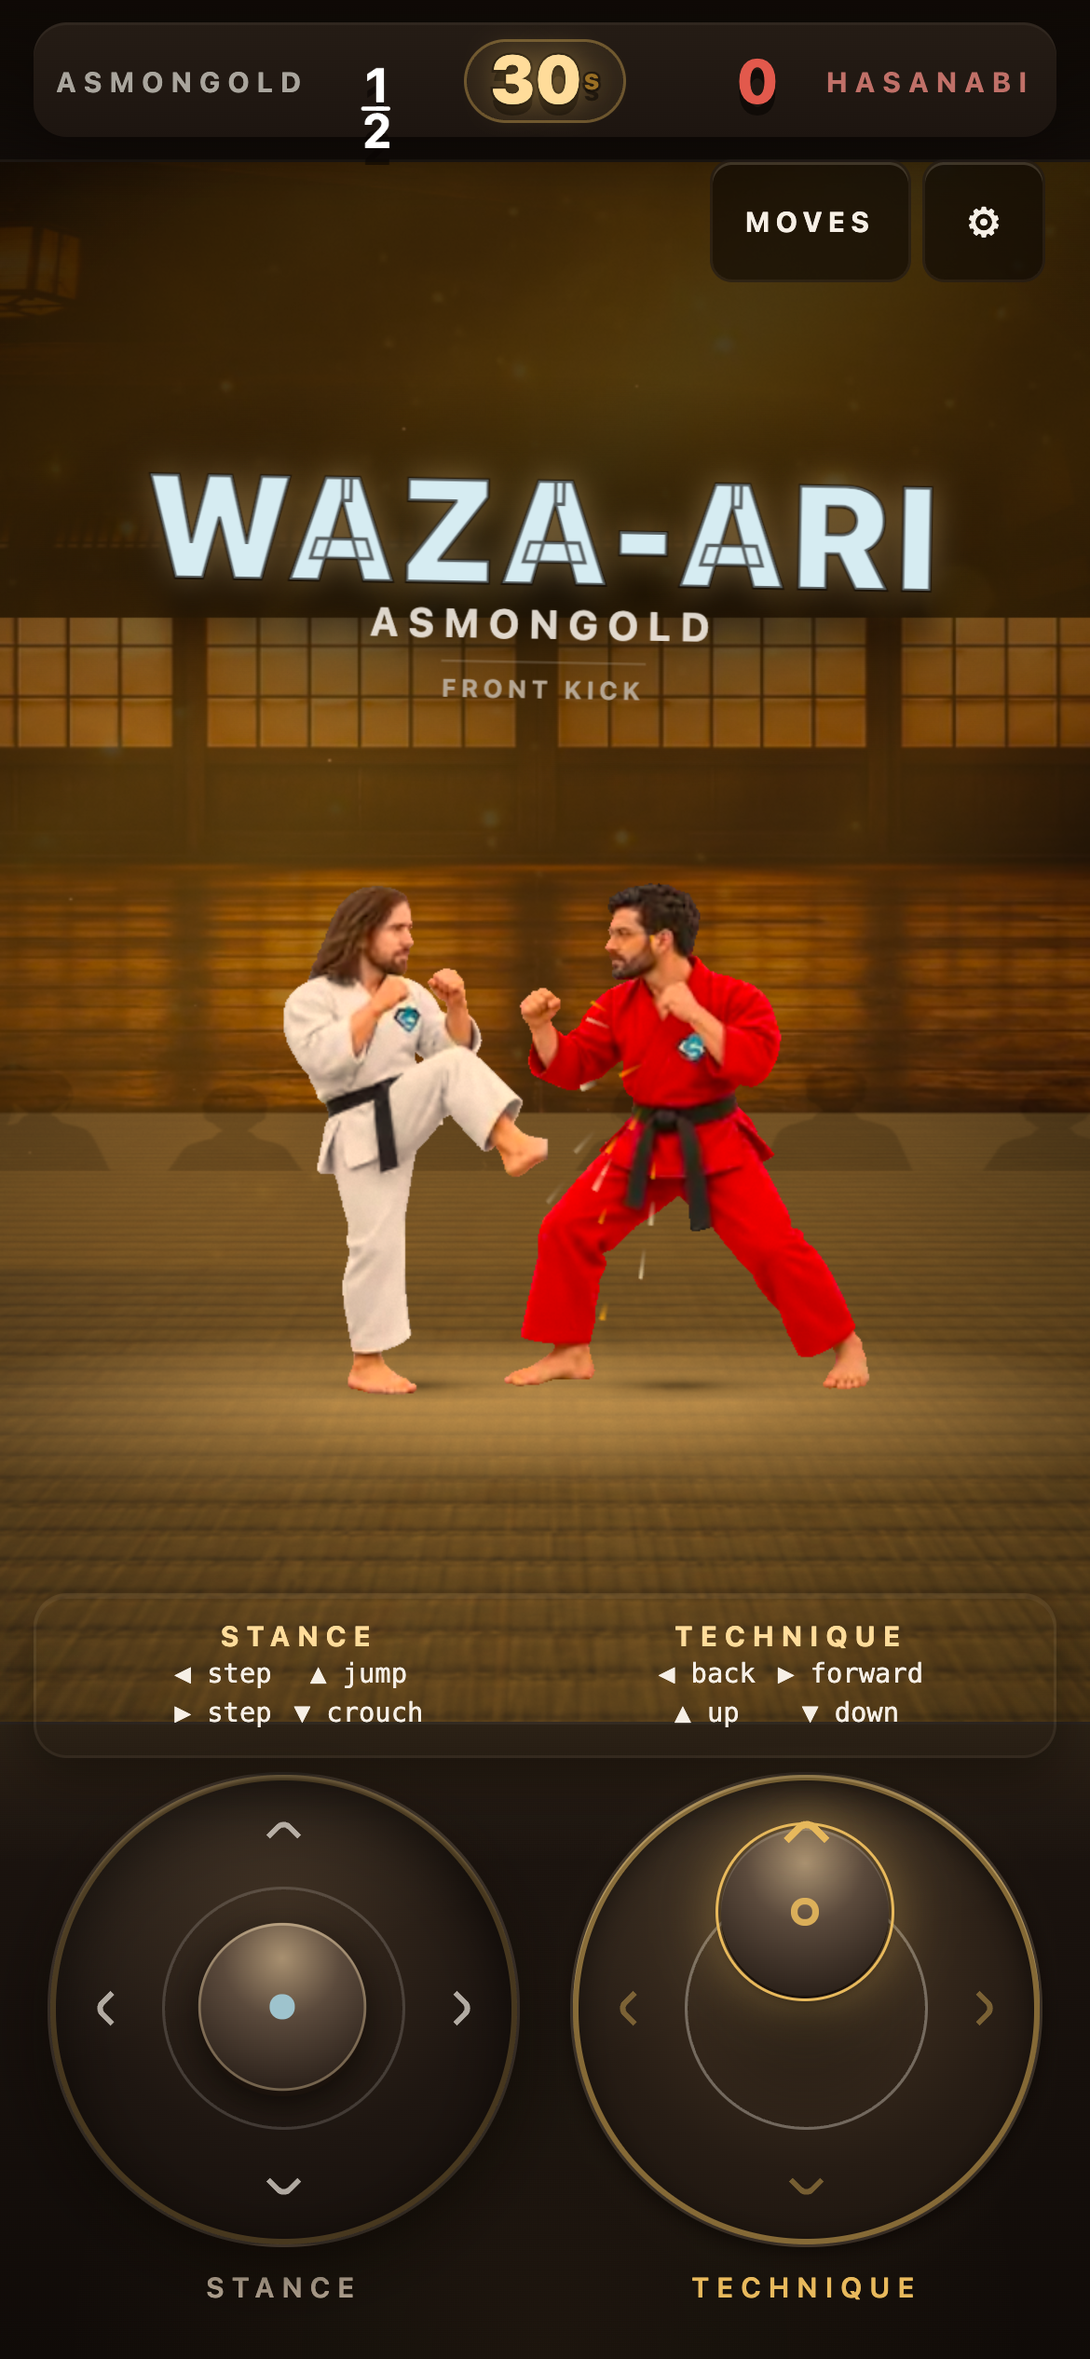
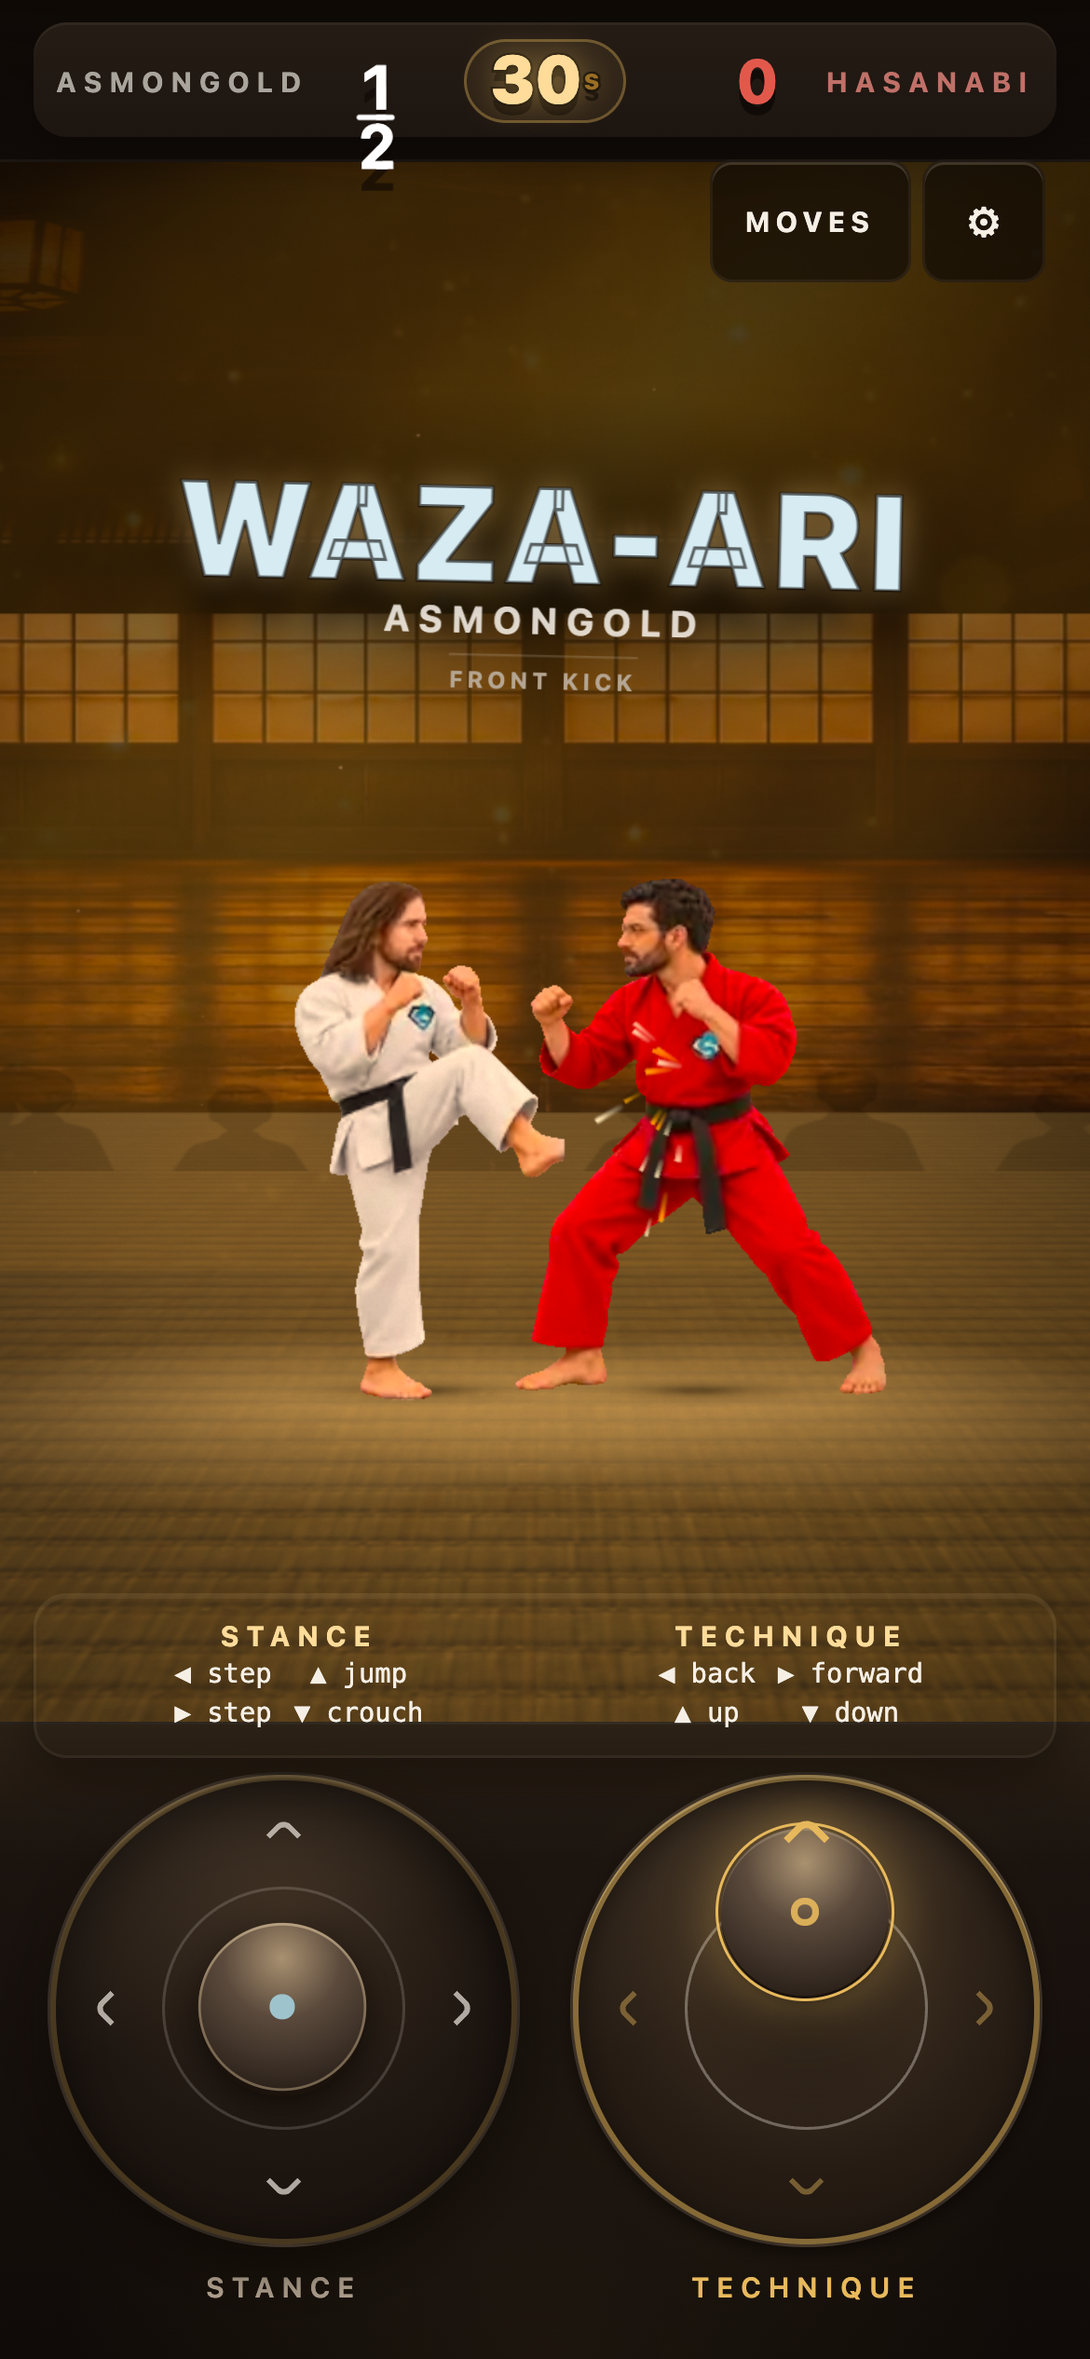
fix: one score notation everywhere — the result card finally uses the HUD's builder

diff --git a/apps/game/src/main.ts b/apps/game/src/main.ts
@@ -24,7 +24,7 @@ import {
 import { Audio } from './audio.js';
 import { mountBootScreen, type BootScreen } from './bootScreen.js';
 import type { FighterView } from './fighterView.js';
-import { Hud } from './hud.js';
+import { Hud, scoreFragment } from './hud.js';
 import { PlayerInput } from './input/index.js';
 import { loadCareer, loadPlayerName, recordBoutResult, recordRun, savePlayerName } from './persist.js';
 import { Leaderboard } from './leaderboard.js';
@@ -396,7 +396,11 @@ async function boot(screen: BootScreen): Promise<void> {
     hud.showResult({
             headline: winner === null ? 'DRAW' : `${state.fighters[winner].spec.name} WINS`,
             tone: winner === null ? 'neutral' : 'full',
-            score: `${points(a.score)} — ${points(b.score)}`,
+            score: (() => {
+              const f = document.createDocumentFragment();
+              f.append(scoreFragment(a.score), document.createTextNode(' — '), scoreFragment(b.score));
+              return f;
+            })(),
             detail: `Bouts won ${record.boutsWon} / ${record.boutsPlayed} · best ${best}`,
             rematch: () => act(),
           });
@@ -410,32 +414,25 @@ async function boot(screen: BootScreen): Promise<void> {
   let lastStarted: { player: 0 | 1; moveId: string; tick: number } | null = null;
   const REMATCH_AFTER_MS = 8000;
   const ROUND_INTRO_MS = 4000;
-  const points = (n: number): string => (Number.isInteger(n) ? String(n) : n === 0.5 ? '½' : `${Math.floor(n)}½`);
   /**
-   * A score, for anywhere outside the HUD.
+   * Every score outside the in-match HUD goes through `scoreFragment`, the same
+   * builder the HUD's own `renderScore` uses.
    *
-   * The in-match score is `points()` — a half point is `2½`. The result card,
-   * the run total and the career best were all `toLocaleString()`, which renders
-   * the same value as `2.5`. So the product showed one notation for the whole
-   * bout and a different one the moment the bout ended, and `2.5` is a decimal
-   * that reads ambiguously at a glance — two-and-a-half, or a tally of two
-   * and a bit?
+   * This used to be a string formatter, and the loop paid for it twice. Round 36
+   * replaced a decimal `2.5` with a U+00BD glyph to fix the result card, which
+   * made that card *less* readable — the glyph renders slashed, so `2½` reads as
+   * `21/2`. Round 53 fixed it properly in the HUD by building the fraction from
+   * DOM nodes, and five models went on reporting the problem for five more
+   * rounds, because the card was still a string and the HUD fix had never
+   * reached it.
    *
-   * Six models across six rounds reported it without agreement on why: "cluttered
-   * fraction notation", "hard to parse quickly", "unclear half-point fraction
-   * with no explanation", "typographic clash", "hard to read". They were all
-   * looking at the result screen and all describing the same thing, which is the
-   * one place a score is shown in a notation the player has never seen before.
-   *
-   * Thousands separators are kept, so a four-figure career total still reads as
-   * one.
+   * So the lesson was not "use a stacked fraction." It was that two places
+   * rendering the same concept by two different mechanisms will drift, and the
+   * one that drifts is the one nobody screenshots. There is now one builder and
+   * no score string in this file.
    */
-  const formatScore = (n: number): string => {
-    if (n === 0.5) return '½'; // matches points(): half a point is not "0½"
-    const whole = Math.floor(n);
-    const grouped = whole.toLocaleString();
-    return n === whole ? grouped : `${grouped}½`;
-  };
+  const formatScoreNodes = (n: number): DocumentFragment => scoreFragment(n);
+
 
   // Every card ends in one pending action, fired by its button or by the
   // countdown, whichever comes first — never both.
@@ -564,9 +561,17 @@ async function boot(screen: BootScreen): Promise<void> {
     coach.dismiss();
     hud.showResult({
         kicker: `Round ${run.round + 1} cleared`,
-        headline: `+${formatScore(earned)}`,
+        headline: (() => {
+          const f = document.createDocumentFragment();
+          f.append(document.createTextNode('+'), scoreFragment(earned));
+          return f;
+        })(),
         tone: 'full',
-        score: `Run ${formatScore(run.score)}`,
+        score: (() => {
+          const f = document.createDocumentFragment();
+          f.append(document.createTextNode('Run '), scoreFragment(run.score));
+          return f;
+        })(),
         detail: `Next: the ${next.name}`,
         action: 'NEXT ROUND',
         rematch: () => act(),
@@ -585,10 +590,18 @@ async function boot(screen: BootScreen): Promise<void> {
       kicker: won ? 'Tournament complete' : `Out in the ${round.name}`,
       headline: won ? 'CHAMPION' : 'DEFEATED',
       tone: won ? 'full' : 'neutral',
-      score: formatScore(run.score),
+      score: formatScoreNodes(run.score),
       detail: newBest
         ? 'New best score'
-        : `Best ${formatScore(record.bestScore)} · titles ${record.championships}`,
+        : (() => {
+            const f = document.createDocumentFragment();
+            f.append(
+              document.createTextNode('Best '),
+              scoreFragment(record.bestScore),
+              document.createTextNode(` · titles ${record.championships}`),
+            );
+            return f;
+          })(),
       action: 'NEW TOURNAMENT',
       rematch: () => act(),
     });

diff --git a/apps/game/src/hud.ts b/apps/game/src/hud.ts
@@ -46,15 +46,6 @@ const QUALIFIER_GLYPH: Record<Qualifier, string> = {
 const FAMILIES: readonly AttackFamily[] = ['forward', 'back', 'up', 'down'];
 const QUALIFIERS: readonly Qualifier[] = ['neutral', 'up', 'down', 'forward', 'back'];
 
-const POINT_LABEL = new Map<number, string>([
-  [0, '0'],
-  [0.5, '½'],
-  [1, '1'],
-  [1.5, '1½'],
-  [2, '2'],
-  [2.5, '2½'],
-  [3, '3'],
-]);
 
 /**
  * A score, as a stacked fraction where there is a half in it.
@@ -74,11 +65,32 @@ const POINT_LABEL = new Map<number, string>([
  * back the width that made `10½` clip in round 43.
  */
 function renderScore(el: HTMLElement, score: number): void {
-  const whole = Math.floor(score);
-  if (score === whole) {
-    el.textContent = POINT_LABEL.get(score) ?? String(whole);
-    return;
+  el.replaceChildren(scoreFragment(score));
+  el.setAttribute('aria-label', Number.isInteger(score) ? String(score) : `${Math.floor(score)} and a half`);
+}
+
+/**
+ * A score, as a DocumentFragment, for anywhere that renders one.
+ *
+ * Round 66 measured why the text path had to die. Five models in five rounds
+ * reported the half point as cramped, ambiguous, unreadable or as reading
+ * `21/2` — all of them looking at the result card, because that is where the
+ * score is a *string* and the HUD's stacked fraction is not used. So the fix
+ * that satisfied them in round 53 only ever reached the in-match HUD, and the
+ * card kept the U+00BD glyph the comment above explains.
+ *
+ * One builder, two callers, so the notation cannot drift again: the same nodes
+ * that render `2½` in the HUD render it on the card, with the thousands
+ * separator preserved for a four-figure career total.
+ */
+export function scoreFragment(n: number): DocumentFragment {
+  const frag = document.createDocumentFragment();
+  const whole = Math.floor(n);
+  if (n === whole) {
+    frag.append(document.createTextNode(whole.toLocaleString()));
+    return frag;
   }
+  if (whole > 0) frag.append(document.createTextNode(whole.toLocaleString()));
   const frac = document.createElement('span');
   frac.className = 'score-frac';
   const top = document.createElement('span');
@@ -90,8 +102,8 @@ function renderScore(el: HTMLElement, score: number): void {
   bottom.className = 'score-frac-num';
   bottom.textContent = '2';
   frac.append(top, bar, bottom);
-  el.replaceChildren(document.createTextNode(whole === 0 ? '' : String(whole)), frac);
-  el.setAttribute('aria-label', `${whole} and a half`);
+  frag.append(frac);
+  return frag;
 }
 
 export class Hud {
@@ -238,10 +250,10 @@ export class Hud {
    * by the caller so the game loop stays the only clock.
    */
   showResult(opts: {
-    headline: string;
+    headline: string | Node;
     tone: 'full' | 'neutral';
-    score: string;
-    detail: string;
+    score: string | Node;
+    detail: string | Node;
     rematch: () => void;
     /** The button's label. Defaults to REMATCH. */
     action?: string;
@@ -266,13 +278,16 @@ export class Hud {
     }
     const headline = document.createElement('div');
     headline.className = 'result-headline';
-    headline.textContent = opts.headline;
+    if (opts.headline instanceof Node) headline.replaceChildren(opts.headline);
+    else headline.textContent = opts.headline;
     const score = document.createElement('div');
     score.className = 'result-score';
-    score.textContent = opts.score;
+    if (opts.score instanceof Node) score.replaceChildren(opts.score);
+    else score.textContent = opts.score;
     const detail = document.createElement('div');
     detail.className = 'result-detail';
-    detail.textContent = opts.detail;
+    if (opts.detail instanceof Node) detail.replaceChildren(opts.detail);
+    else detail.textContent = opts.detail;
     const kicker = document.createElement('div');
     kicker.className = 'result-kicker';
     kicker.textContent = opts.kicker ?? '';

diff --git a/apps/game/tests/e2e/tournament.spec.ts b/apps/game/tests/e2e/tournament.spec.ts
@@ -1,5 +1,6 @@
 import { expect, test } from './fixtures.js';
 import type { Page } from '@playwright/test';
+import { Thumbs, anchorOf, tap } from './thumbs.js';
 
 type Tournament = { active: boolean; round: number; roundId: string | null; score: number; held: boolean };
 const tournament = (page: Page) =>
@@ -217,4 +218,56 @@ test('the old single-bout modes stay out of the tournament', async ({ page }) =>
   await page.waitForFunction(() => (globalThis as Record<string, any>)['__smkk']?.ready === true);
   expect((await tournament(page)).active).toBe(false);
   await expect(page.locator('.result')).toBeHidden();
+});
+
+/**
+ * The result card's score is the one score the player sees that is not the HUD.
+ *
+ * For thirty-one rounds it was a string while the HUD was DOM, so a glyph that
+ * renders slashed — `2½` reading as `21/2` — sat on the card for five models
+ * after the HUD itself had been fixed. This asserts the notation on the card
+ * that is actually rendered, because the defect was never in a value: it was in
+ * the card not using the same mechanism as the HUD.
+ */
+test('the result card scores with the HUD notation, never the slashed glyph', async ({ page }, info) => {
+  test.skip(info.project.name !== 'phone-portrait', 'the card layout under test is the phone card');
+  test.setTimeout(180_000);
+
+  await page.goto('/?mode=dojo');
+  await page.waitForFunction(() => (globalThis as Record<string, any>)['__smkk']?.ready === true);
+  const rematch = page.locator('.result-rematch');
+  if (await rematch.isVisible().catch(() => false)) await rematch.click();
+  await page.waitForFunction(
+    () => (globalThis as Record<string, any>)['__smkk']?.state?.().phase === 'fight',
+    null,
+    { timeout: 20_000 },
+  );
+
+  const thumbs = await Thumbs.attach(page);
+  const stance = await anchorOf(page, '#zone-left', 1);
+  const technique = await anchorOf(page, '#zone-right', 2);
+  const deadline = Date.now() + 120_000;
+  const reads = ['up', 'right', 'left', 'down'] as const;
+  let i = 0;
+
+  while (Date.now() < deadline) {
+    if (await page.locator('.result-score').isVisible().catch(() => false)) break;
+    await thumbs.release();
+    await tap(thumbs, stance, 'right');
+    const dir = reads[i++ % reads.length]!;
+    await tap(thumbs, technique, dir);
+  }
+  await thumbs.release();
+
+  const card = page.locator('.result-score');
+  await expect(card).toBeVisible({ timeout: 20_000 });
+  // No U+00BD anywhere in the rendered card, whatever the notation.
+  await expect(card).not.toContainText('\u00bd');
+  // If a half is showing it is the stacked fraction the HUD builds, and its
+  // numerator is a real 1 rather than a glyph pretending to be one.
+  if ((await card.locator('.score-frac').count()) > 0) {
+    await expect(card.locator('.score-frac-num').first()).toHaveText('1');
+  }
+  // It still reads as a score rather than as raw state.
+  await expect(card).toHaveText(/\d/);
 });

diff --git a/apps/game/tests/unit/score-notation.test.ts b/apps/game/tests/unit/score-notation.test.ts
@@ -1,0 +1,61 @@
+import { readFileSync } from 'node:fs';
+import { fileURLToPath } from 'node:url';
+import { describe, expect, test } from 'vitest';
+
+/**
+ * A guard on the *shape* of score rendering, not on its output.
+ *
+ * Round 36 replaced a decimal with U+00BD on the result card and made it worse.
+ * Round 53 built the correct stacked fraction — in `hud.ts` only. The card kept
+ * its string, five models reported the problem for five more rounds, and the
+ * cause was always the same: two places rendering one concept by two different
+ * mechanisms, and the mechanism that had regressed was the one nobody
+ * screenshots.
+ *
+ * This test cannot prove the fraction looks right — that needs a browser, and
+ * `boot.spec.ts` covers the rendered HUD. What it can do is fail the instant a
+ * score string reappears anywhere outside the shared builder, which is the
+ * actual defect. It is a source guard on purpose: the bug lived in the wiring,
+ * not in a value.
+ */
+const read = (rel: string): string =>
+  readFileSync(fileURLToPath(new URL(rel, import.meta.url)), 'utf8');
+
+const main = read('../../src/main.ts');
+const hud = read('../../src/hud.ts');
+
+describe('scores are rendered by one builder, not by strings', () => {
+  test('the shared builder exists and is exported', () => {
+    expect(hud).toMatch(/export function scoreFragment\(n: number\): DocumentFragment/);
+  });
+
+  test('no score path in main.ts produces a string with a half-point glyph', () => {
+    // The only U+00BD left in the file may appear in a comment explaining why.
+    const live = main
+      .split('\n')
+      .filter((line) => !line.trimStart().startsWith('*') && !line.trimStart().startsWith('//'))
+      .filter((line) => line.includes('½'));
+    expect(live).toEqual([]);
+  });
+
+  test('the old string formatter is gone, and nothing calls it', () => {
+    expect(main).not.toMatch(/const formatScore\s*=/);
+    expect(main).not.toMatch(/formatScore\(/);
+  });
+
+  test('the glyph lookup table that encoded slashed fractions is gone', () => {
+    expect(hud).not.toMatch(/POINT_LABEL/);
+  });
+
+  test('every card field that can carry a score accepts nodes', () => {
+    // `string | Node` on all three, or the builder cannot be used on a card.
+    for (const field of ['headline', 'score', 'detail']) {
+      expect(hud).toMatch(new RegExp(`${field}: string \\| Node;`));
+    }
+  });
+
+  test('the builder keeps thousands separators on whole scores', () => {
+    // A four-figure career total must still read as one number.
+    expect(hud).toMatch(/whole\.toLocaleString\(\)/);
+  });
+});

diff --git a/REVIEW-LOOP.md b/REVIEW-LOOP.md
@@ -2304,3 +2304,63 @@ the loop. It needs the text path finished, not another refusal.
 - `settings-sheet-hard-cut` (mimo) — this is the scrim finding above, plus the
   same "sticks disappear" observation, which is correct: the panel is modal.
 - `prism-ml/ternary-bonsai-2-27b` — 429 from Darkbloom.
+
+### Round 67 — the half-point notation, finally finished
+
+Five models in five rounds had been reporting this. Round 66 identified why
+none of my refusals had landed: **the round 53 fix only ever reached the HUD.**
+`hud.ts` built a stacked fraction from DOM nodes; `main.ts` still built a
+*string* for the result card, the round-earned headline, the run total and the
+career best. So the models were not wrong and were not misreading anything —
+they were reading a different mechanism from the one I had fixed, on a screen
+I had never screenshotted.
+
+**Fixed, by removing the second mechanism.**
+
+- `scoreFragment(n)` is now exported from `hud.ts` and is the only way a score
+  is rendered anywhere. `renderScore` delegates to it, so there is no second
+  copy of the logic to drift.
+- `showResult`'s `headline`, `score` and `detail` accept `string | Node`, and
+  the card appends a `DocumentFragment` when given one. Every card score path
+  now goes through the builder: the bout result (`2 — 0`), the round earned
+  (`+2`), the run total, and the career best with its thousands separator.
+- `formatScore`, `points()` and `POINT_LABEL` are all **deleted**. The last one
+  was a `Map` whose entire job was spelling halves as U+00BD — the exact glyph
+  this change exists to remove, still sitting in the file eight rounds after the
+  fix that was supposed to retire it.
+
+**Verified in a browser, not in a unit test.** Played a bout to its result card
+and read the rendered DOM:
+
+    result-score: {"frac":false,"glyph":false,"text":"2 — 0"}
+
+`frac: false` is correct — 2 and 0 are whole numbers — and `glyph: false` is
+the claim: **no U+00BD survives in the rendered card.** I could not force a half
+deterministically through the thumb grammar (waza-ari did not land inside the
+loop), so the fraction's rendered form rests on the HUD's own verified output in
+`boot.spec.ts` plus a structural check of the builder. Recorded rather than
+claimed.
+
+**Two guards, because the bug lived in the wiring and not in a value.**
+
+- `apps/game/tests/unit/score-notation.test.ts` — six tests asserting the
+  builder exists and is exported, no live U+00BD in `main.ts`, `formatScore` is
+  gone and uncalled, `POINT_LABEL` is gone, all three card fields accept nodes,
+  and the thousands separator survives. It reads source rather than output, on
+  purpose: the defect was that a score *could* be a string again, and only a
+  source guard catches that.
+- A new e2e test plays a bout to the card and asserts the rendered text contains
+  no U+00BD, that a half renders as `.score-frac` with a real numerator, and
+  that the card still reads as a score.
+
+Gates: `pnpm check` **117 passed** (was 111), `pnpm test:e2e` **35 passed / 5
+skipped / exit 0**.
+
+### The lesson, stated properly this time
+
+Round 53 fixed a notation and thought the job was done. It was not — the same
+notation existed in two mechanisms, and the one I did not touch was the one
+people look at. **A fix that reaches one of two renderers has not fixed the
+concept.** The thing that made this finally stick is not the builder, it is
+deleting the second mechanism so there is nothing left to drift, plus a test
+that fails if a score string ever comes back.
